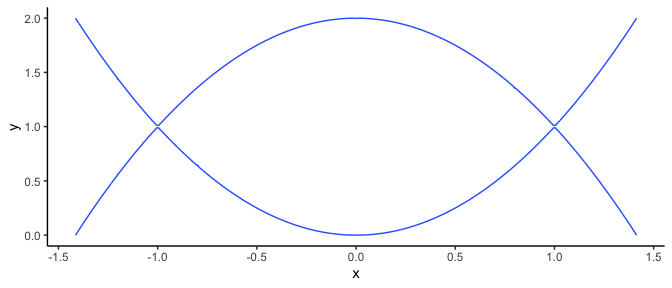
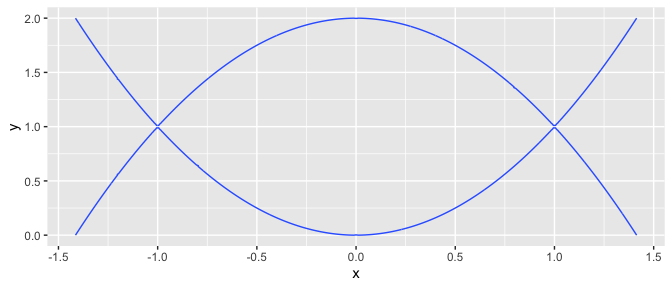
readme updates

diff --git a/README.md b/README.md
@@ -111,12 +111,12 @@ loglinear(~ Personality + Party, data = politics)
 # N = 10000 samples (after thinning), burn in = 1000, thinning = 10
 # 
 #                  stat p.value     se mid.p.value
-#       P(table)         0.3671 0.0048      0.2193
-#    Pearson X^2 1.8182  0.3671 0.0048      0.2193
-# Likelihood G^2 1.848   0.3671 0.0048      0.2193
-#  Freeman-Tukey 1.8749  0.3671 0.0048      0.2193
-#   Cressie-Read 1.8247  0.3671 0.0048      0.2193
-#     Neyman X^2 2.0089  0.3671 0.0048      0.2931
+#       P(table)         0.3713 0.0048      0.2185
+#    Pearson X^2 1.8182  0.3713 0.0048      0.2185
+# Likelihood G^2 1.848   0.3713 0.0048      0.2185
+#  Freeman-Tukey 1.8749  0.3713 0.0048      0.2185
+#   Cressie-Read 1.8247  0.3713 0.0048      0.2185
+#     Neyman X^2 2.0089  0.3713 0.0048      0.2951
 ```
 
 Exact inference in algebraic statistics is done using MCMC to sample
@@ -223,12 +223,12 @@ loglinear(~ income + satisfaction, data = Job)
 # N = 10000 samples (after thinning), burn in = 1000, thinning = 10
 # 
 #                  stat p.value     se mid.p.value
-#       P(table)         0.7868 0.0041      0.7865
-#    Pearson X^2 5.9655  0.7724 0.0042      0.7724
-# Likelihood G^2 6.7641  0.7785 0.0042      0.7785
-#  Freeman-Tukey 8.6189  0.7782 0.0042      0.7782
-#   Cressie-Read 6.0752  0.7745 0.0042      0.7745
-#     Neyman X^2 6.2442  0.6109 0.0049      0.6109
+#       P(table)         0.7855 0.0041      0.785 
+#    Pearson X^2 5.9655  0.7722 0.0042      0.7722
+# Likelihood G^2 6.7641  0.7761 0.0042      0.7761
+#  Freeman-Tukey 8.6189  0.7768 0.0042      0.7768
+#   Cressie-Read 6.0752  0.7735 0.0042      0.7735
+#     Neyman X^2 6.2442  0.6057 0.0049      0.6057
 ```
 
 The asymptotic test can be performed as well. The chi-square
@@ -277,12 +277,12 @@ loglinear(subsets(1:3, 2), data = drugs)
 # N = 10000 samples (after thinning), burn in = 1000, thinning = 10
 # 
 #                  stat p.value     se mid.p.value
-#       P(table)          0.611 0.0049      0.4678
-#    Pearson X^2 0.5279   0.611 0.0049      0.4678
-# Likelihood G^2 0.4845   0.611 0.0049      0.4678
-#  Freeman-Tukey 0.4672   0.611 0.0049      0.4678
-#   Cressie-Read 0.512    0.611 0.0049      0.4678
-#     Neyman X^2 0.4294   0.611 0.0049      0.4678
+#       P(table)         0.6016 0.0049      0.4598
+#    Pearson X^2 0.5279  0.6016 0.0049      0.4598
+# Likelihood G^2 0.4845  0.6016 0.0049      0.4598
+#  Freeman-Tukey 0.4672  0.6016 0.0049      0.4598
+#   Cressie-Read 0.512   0.6016 0.0049      0.4598
+#     Neyman X^2 0.4294  0.6016 0.0049      0.4598
 ```
 
 Note that here we’ve used the more concise syntax of facet
@@ -382,8 +382,7 @@ Even better, **algstat** can team up with
 solve systems of polynomial equations using `poly_solve()`:
 
 ``` r
-ggvariety(mp("(y - x^2) (y - (2 - x^2))"), xlim = c(-2,2), ylim = c(0,2), n = 351) +
-  ggplot2::theme_classic()
+ggvariety(mp("(y - x^2) (y - (2 - x^2))"), xlim = c(-2,2), ylim = c(0,2), n = 351)
 ```
 
 ![](tools/poly-solve-1.png)
@@ -394,6 +393,38 @@ poly_solve(c("y = x^2", "y = 2 - x^2"), varorder = c("x", "y"))
 #     (-1,1) (R)
 #     ( 1,1) (R)
 ```
+
+Variety normal distribution
+===========================
+
+``` r
+p <- mp("y^2 - (x^3 + x^2)")
+(samps <- rvnorm(2000, p, .025, "tibble", w = 1.15))
+# # A tibble: 8,000 x 8
+#        x     y      num denom       ng   lp__ chain  iter
+#    <dbl> <dbl>    <dbl> <dbl>    <dbl>  <dbl> <int> <int>
+#  1 0.559 0.691 -0.0103   2.48 -0.00417  0.931     1  1001
+#  2 0.459 0.567  0.0144   1.92  0.00748  1.17      1  1002
+#  3 0.450 0.552  0.0108   1.87  0.00579  1.21      1  1003
+#  4 0.683 0.903  0.0296   3.31  0.00897  0.204     1  1004
+#  5 0.606 0.793  0.0389   2.81  0.0139   0.538     1  1005
+#  6 0.621 0.785 -0.00974  2.87 -0.00340  0.682     1  1006
+#  7 0.555 0.716  0.0336   2.49  0.0135   0.762     1  1007
+#  8 0.578 0.713 -0.0197   2.59 -0.00762  0.841     1  1008
+#  9 0.825 1.08  -0.0714   4.28 -0.0167  -1.44      1  1009
+# 10 0.853 1.08  -0.178    4.45 -0.0401  -2.58      1  1010
+# # … with 7,990 more rows
+
+library("ggplot2")
+# 
+# Attaching package: 'ggplot2'
+# The following object is masked from 'package:mpoly':
+# 
+#     vars
+ggplot(samps, aes(x, y)) + geom_point(size = .5) + coord_equal()
+```
+
+![](tools/rvnorm-1.png)
 
 Acknowledgements
 ================
